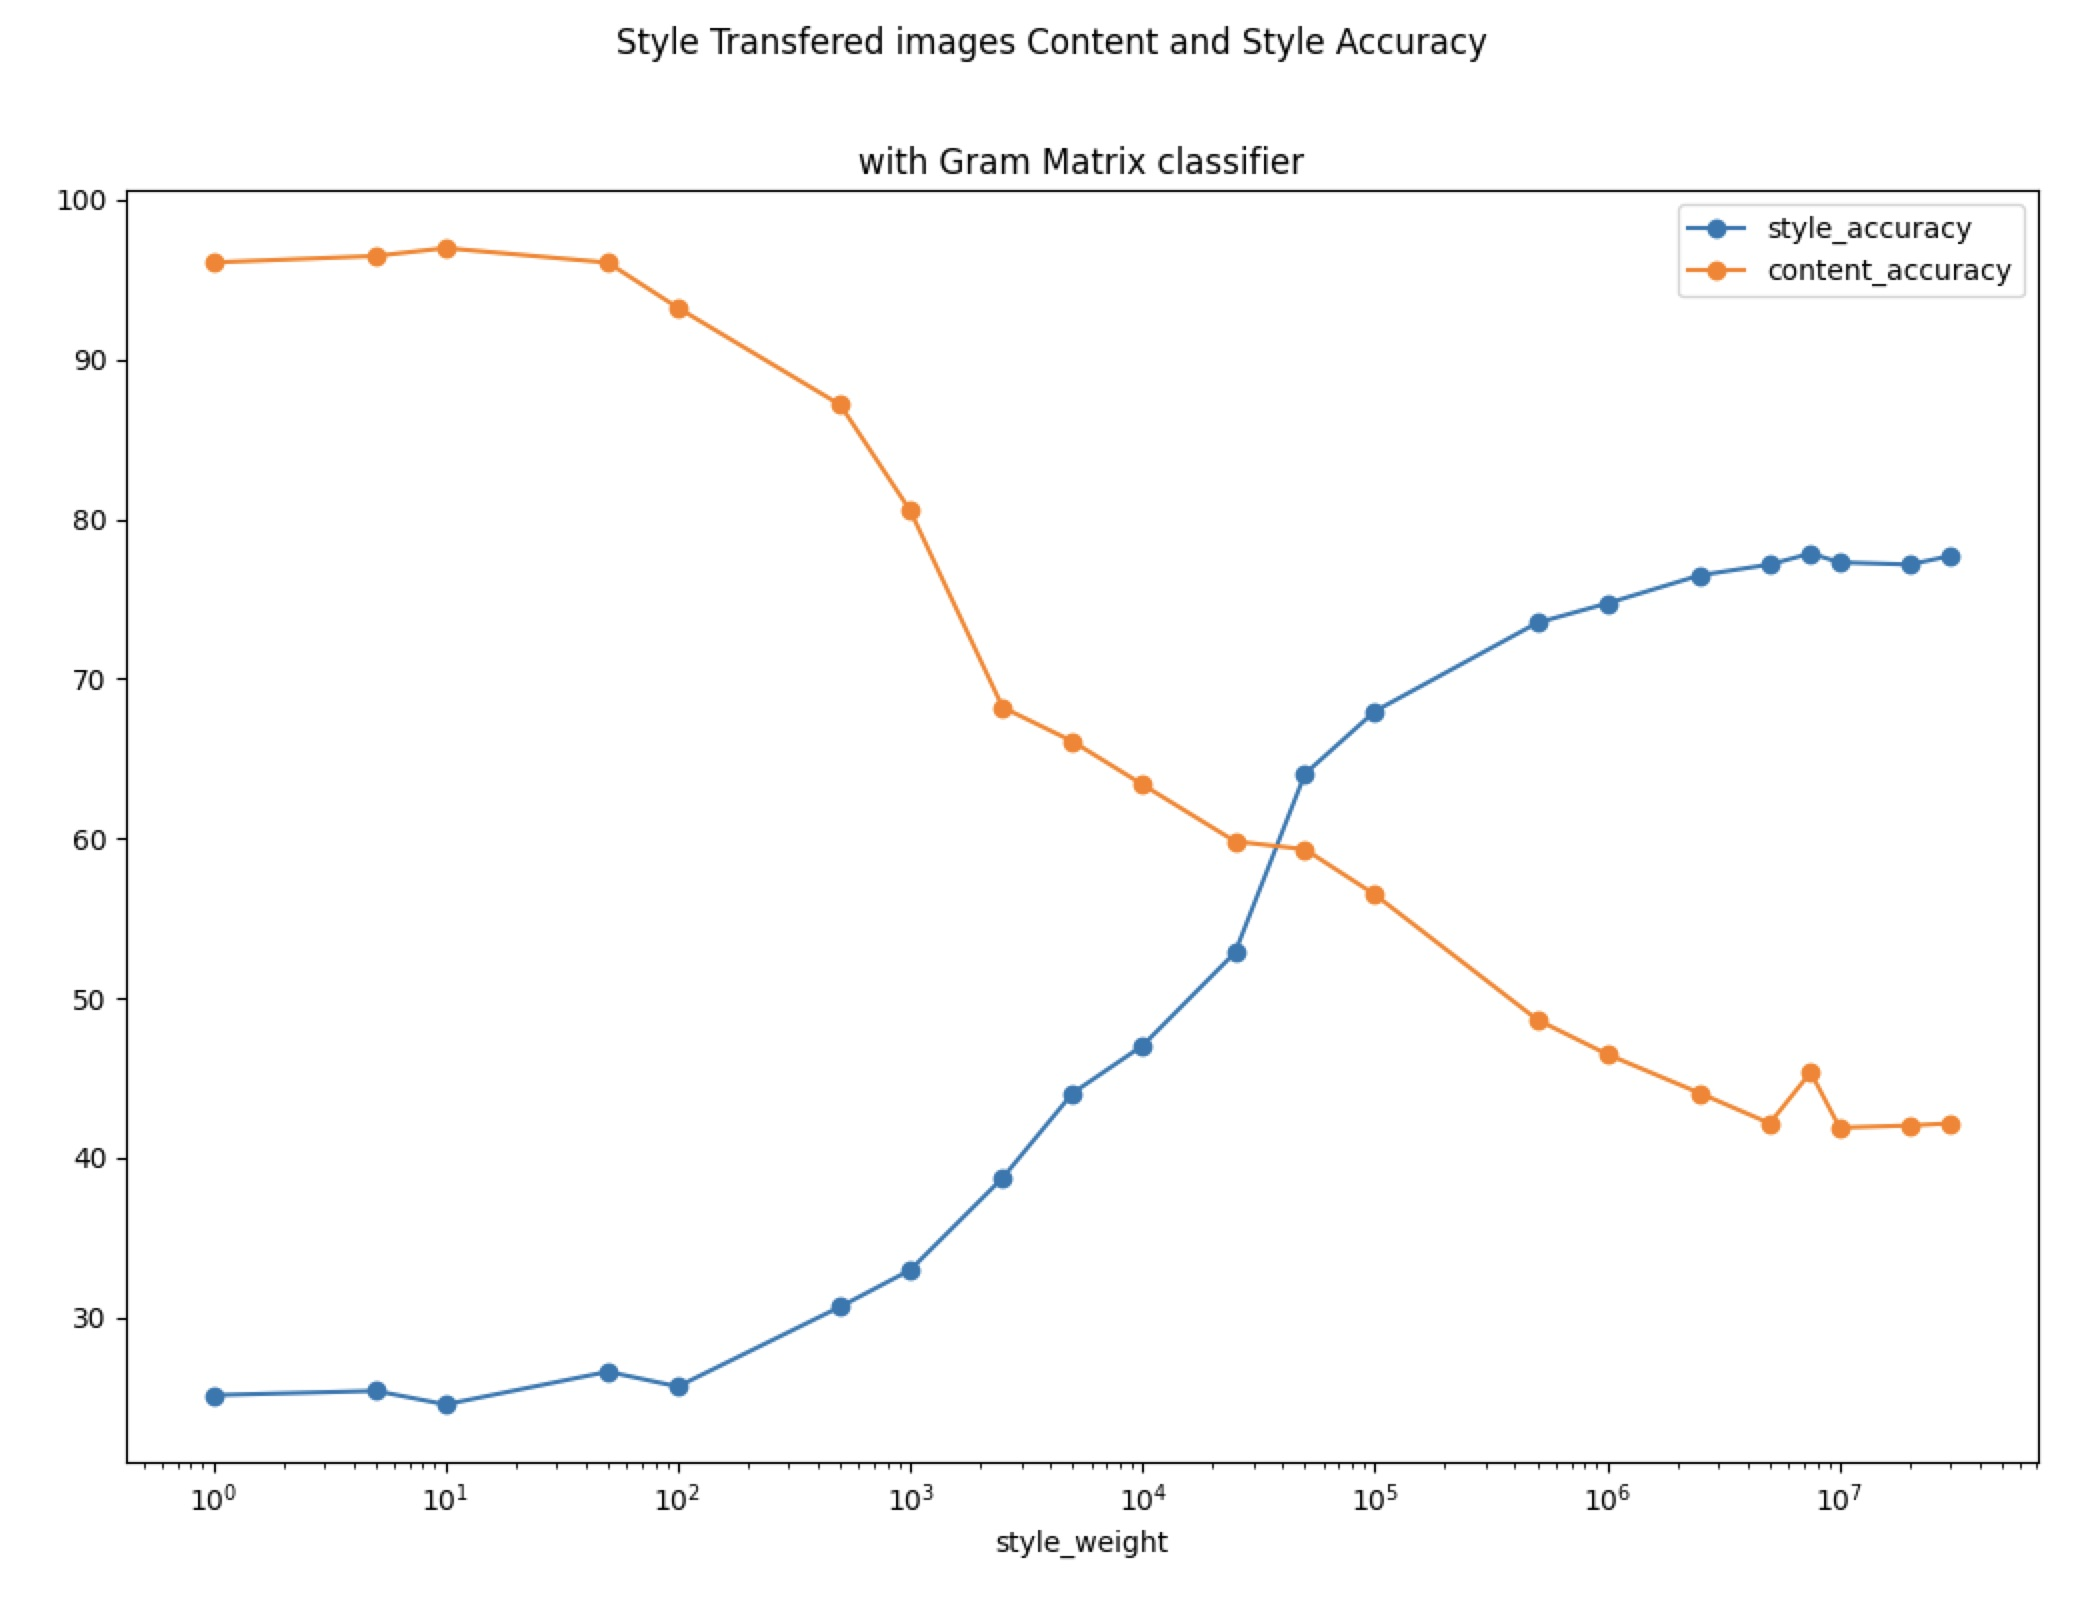
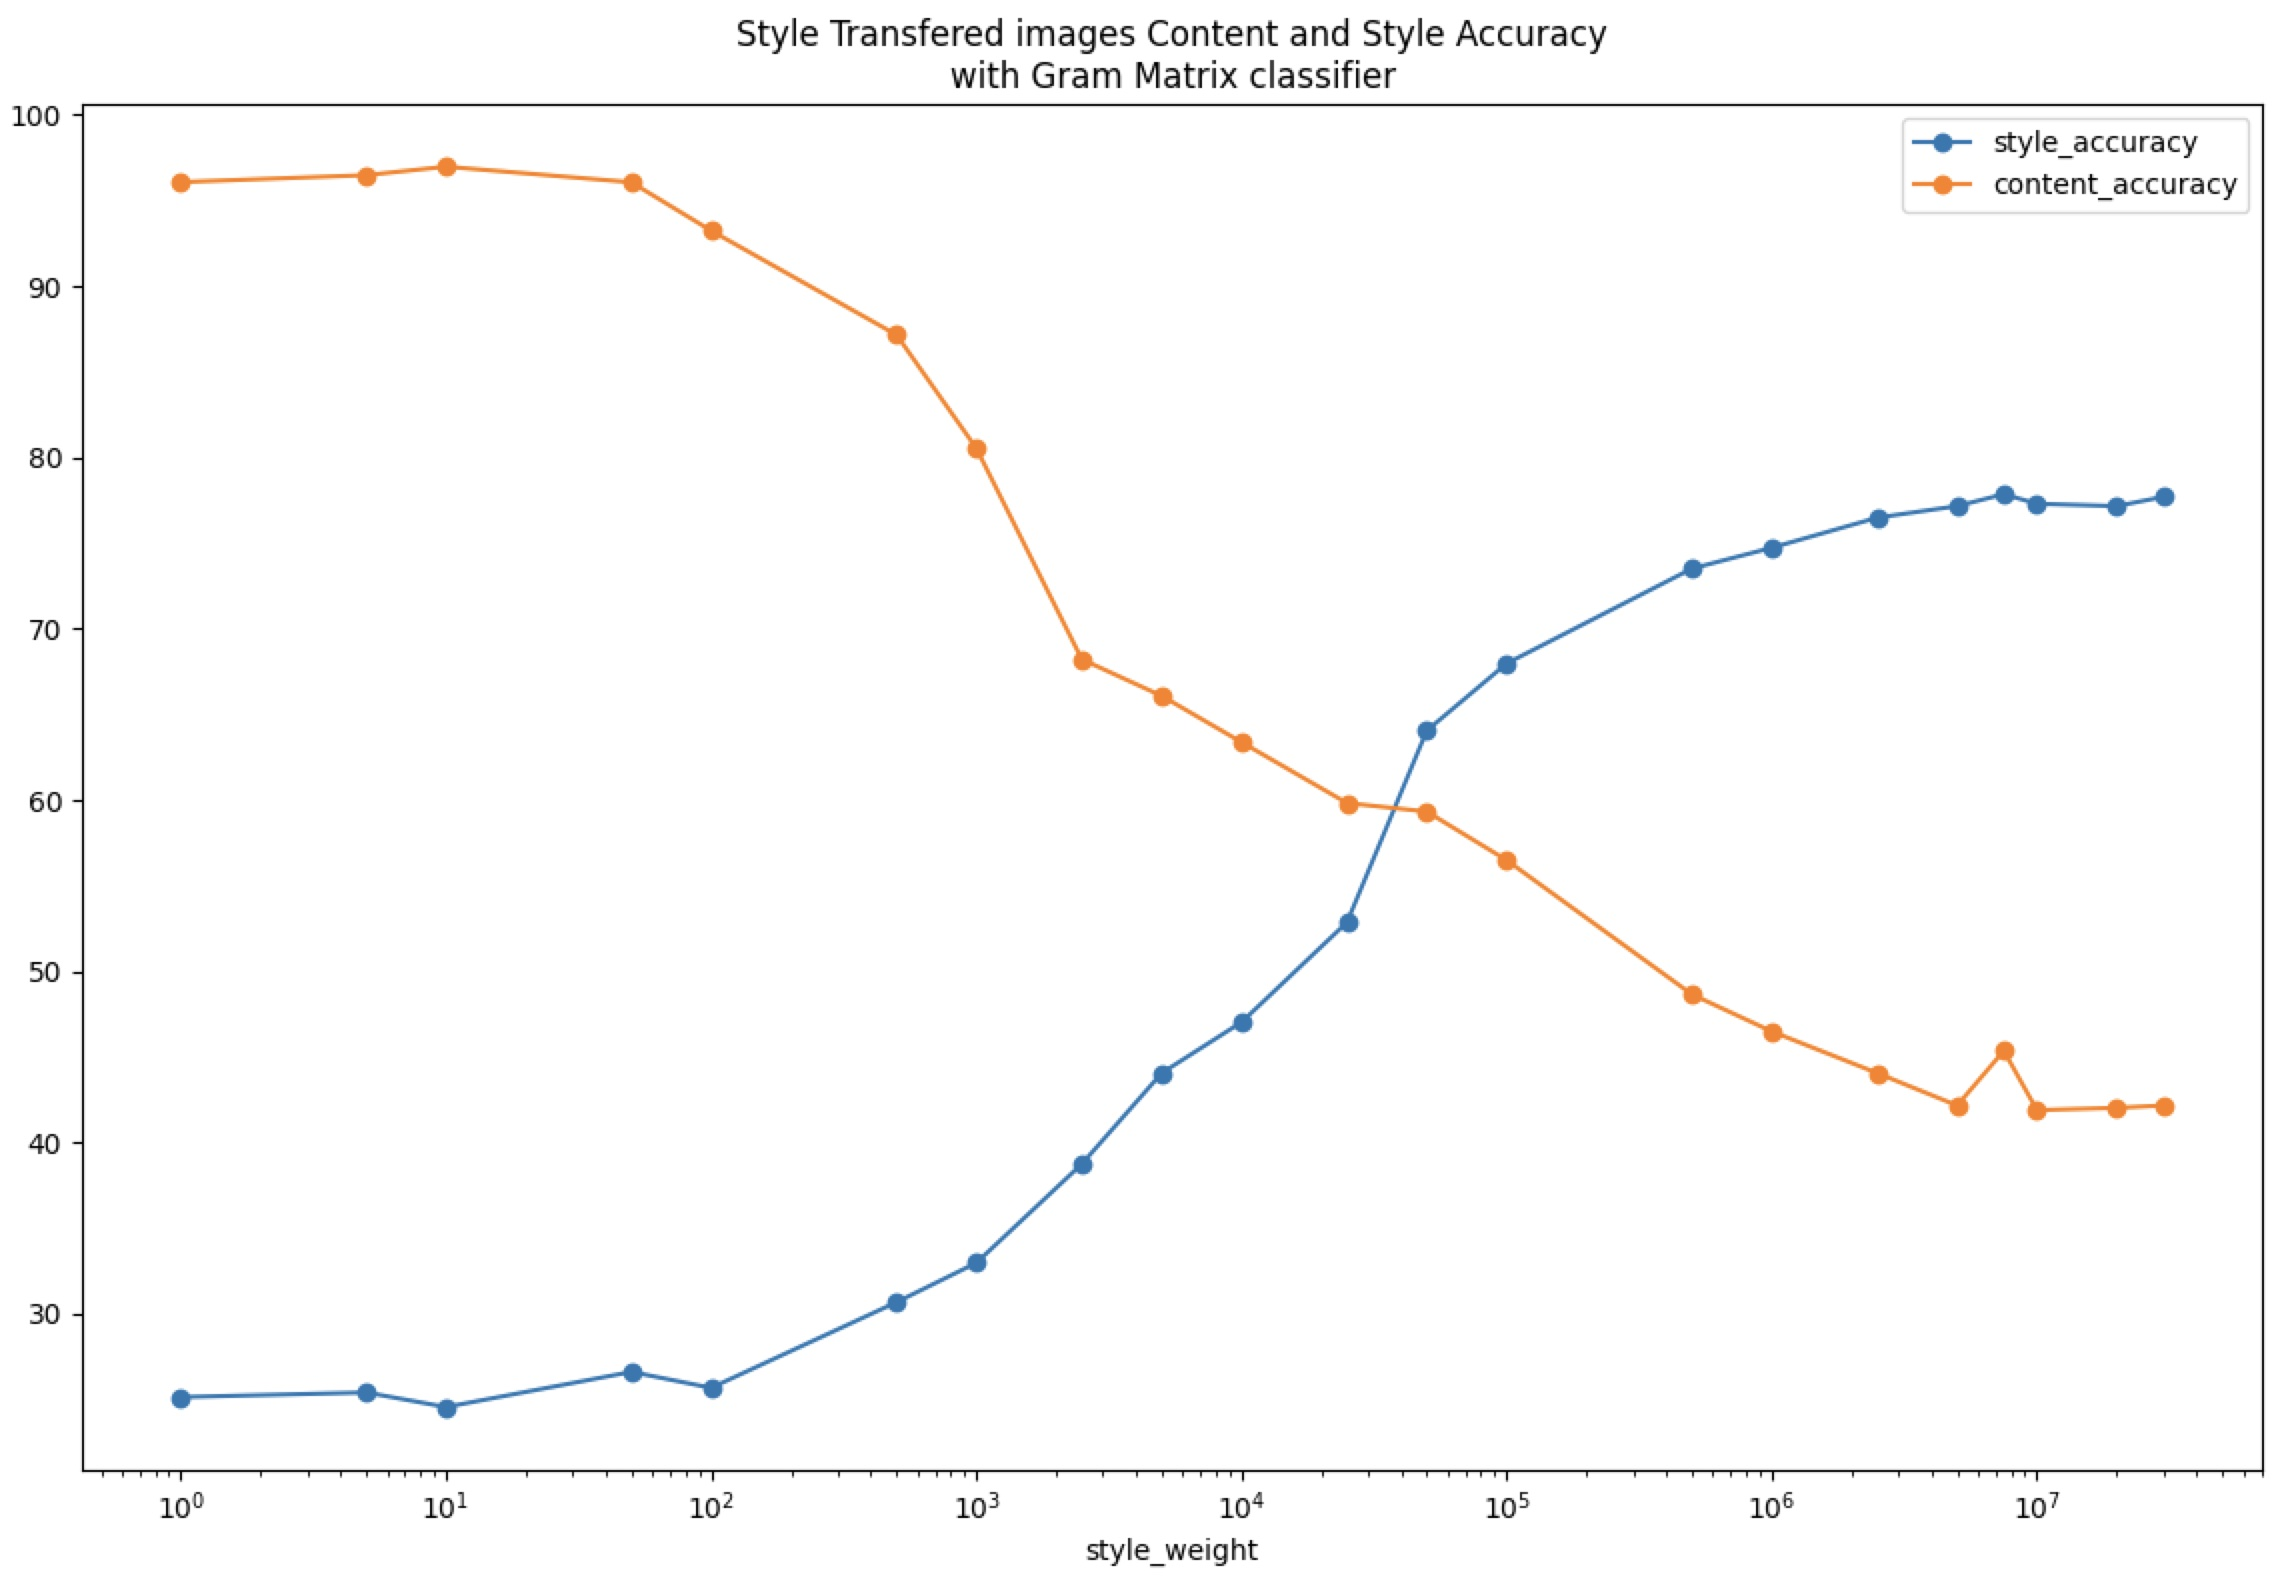
Add more charts

diff --git a/chart.py b/chart.py
@@ -1,12 +1,12 @@
 import pandas as pd
 import matplotlib.pyplot as plt
 
-df = pd.read_csv('data/output/style_transfered/results.csv')
+df = pd.read_csv('data/output/style_transfered/results_gram.csv')
 
 df = df[['style_weight', 'style_accuracy', 'content_accuracy']]
 df.index = df['style_weight']
 df = df.drop(columns=['style_weight'])
 df.plot(style='o-', logx=True)
-plt.suptitle('Style Transfered images Content and Style Accuracy')
-plt.title('with Gram Matrix classifier')
+plt.title('Style Transfered images Content and Style Accuracy\n'
+          'with Gram Matrix classifier')
 plt.show()
